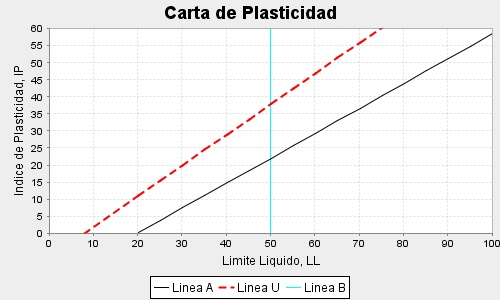
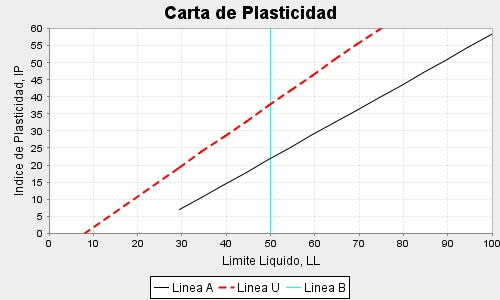
Gestionar COnsistencia.

diff --git a/trunk/src/cuLimiteConsistencia/ControlLimiteConsistencia.java b/trunk/src/cuLimiteConsistencia/ControlLimiteConsistencia.java
@@ -18,14 +18,14 @@ public class ControlLimiteConsistencia {
         /**
          * Inserta un analisis de consistencia con persistencia. 
          */ 
-        public void insertarConsistencia(Float limiteLiquido ,Float limitePlastico,Muestra muestra) throws Exception{
+        public void insertarConsistencia(Muestra muestra) throws Exception{
                 Persistencia persistencia = new Persistencia();
                 persistencia.abrirTransaccion();
                 try {
-                        muestra = (Muestra)persistencia.buscarObjeto(muestra.getClass(), "nombreMuestra=='"+muestra.getNombreMuestra()+"' && ubicacion.nombreUbicacion=='"+muestra.getUbicacion().getNombreUbicacion()+"'");
-                        muestra.setLimiteLiquido(limiteLiquido);
-                        muestra.setLimitePlastico(limitePlastico);
-                        muestra.calcularIndicePlasticidad();
+                        Muestra auxMuestra = (Muestra)persistencia.buscarObjeto(muestra.getClass(), "nombreMuestra=='"+muestra.getNombreMuestra()+"' && ubicacion.nombreUbicacion=='"+muestra.getUbicacion().getNombreUbicacion()+"'");
+                        auxMuestra.setLimiteLiquido(muestra.getLimiteLiquido().toString());
+                        auxMuestra.setLimitePlastico(muestra.getLimitePlastico().toString());
+                        auxMuestra.calcularIndicePlasticidad();
                         persistencia.cerrarTransaccion();
                         System.out.println("Consistencia insertado con persistencia");
                 } catch (Exception e) {
@@ -49,8 +49,8 @@ public class ControlLimiteConsistencia {
                 try {
                 	Muestra muestra = new Muestra();
         			muestra = (Muestra)persistencia.buscarObjeto(muestra.getClass(), "nombreMuestra=='"+nombreMuestra+"'");
-        			muestra.setLimitePlastico(limitePlastico);
-        			muestra.setLimiteLiquido(limiteLiquido);
+        			muestra.setLimitePlastico(limitePlastico.toString());
+        			muestra.setLimiteLiquido(limiteLiquido.toString());
         			muestra.calcularIndicePlasticidad();
         			persistencia.cerrarTransaccion();
         			System.out.println("Consistencia modificada con persistencia");

diff --git a/trunk/src/cuLimiteConsistencia/GUILimiteConsistencia.java b/trunk/src/cuLimiteConsistencia/GUILimiteConsistencia.java
@@ -55,12 +55,16 @@ public class GUILimiteConsistencia extends javax.swing.JDialog {
     public GUILimiteConsistencia(String title, Muestra muestra) {
         super();
         setTitle(title);
-        jTextFieldLL = new JTextField();
-        jTextFieldLP = new JTextField();
+      
         nombreMuestra = new javax.swing.JLabel("Nombre: "+muestra.getNombreMuestra());
         pesoMuestra  = new javax.swing.JLabel("Peso: "+muestra.getPeso()+ " (gr.)");
-        jTextFieldLL = new javax.swing.JTextField();
-        jTextFieldLP = new javax.swing.JTextField();
+        if (muestra.getLimiteLiquido() == 0 && muestra.getLimitePlastico() == 0){
+        	  jTextFieldLL = new JTextField();
+              jTextFieldLP = new JTextField(); 
+        }else {
+        	jTextFieldLL = new JTextField(muestra.getLimiteLiquido().toString());
+            jTextFieldLP = new JTextField(muestra.getLimitePlastico().toString());
+        }
         initComponents();
         jButtonAgregar.setIcon(new javax.swing.ImageIcon(getClass().getResource("/imagenes/edit-add.png")));
         jButtonCancelar.setIcon(new javax.swing.ImageIcon(getClass().getResource("/Imagenes/dialog-no.png")));
@@ -70,26 +74,8 @@ public class GUILimiteConsistencia extends javax.swing.JDialog {
        
 }
 
-/**
- * This is the parametrized constructor used in modification
- * @param limLiq  arreglo que almacena los datos de una limiteLiquido.
- */
-public GUILimiteConsistencia(String title,String limLiq, String limPlas, Muestra muestra) {
-        super();
-        setTitle(title);
-        jTextFieldLL = new JTextField(limLiq);
-        jTextFieldLP = new JTextField(limPlas);
-        nombreMuestra = new javax.swing.JLabel("Nombre Muestra: "+muestra.getNombreMuestra());
-        pesoMuestra = new javax.swing.JLabel("Peso: "+muestra.getPeso()+ " (gr.)");
-        initComponents();
-        
-}
-    /** Creates new form GUILimiteConsistencia
-    public GUILimiteConsistencia(String title, Muestra mu) {
-        super();
-        
-        initComponents();
-    } */
+
+
 
     /** This method is called from within the constructor to
      * initialize the form.

diff --git a/trunk/src/cuGestionarMuestra/MediadorAltaMuestra.java b/trunk/src/cuGestionarMuestra/MediadorAltaMuestra.java
@@ -185,15 +185,18 @@ public class MediadorAltaMuestra extends Mediador{
 		data[4]= GUIMuestra.getProfundidadFinal().getText().replace(",",".");
 		data[5]= operador.getNombre()+" "+operador.getApellido();
 		if (muestra.getCliente().getNombre()!=null){
+			System.out.println("CLIENTE: "+muestra.getCliente().getNombre());
 		    	data [6]= muestra.getCliente().getNombre()+" "+muestra.getCliente().getApellido();
 		    }
 		else{
+			System.out.println("CLIENTE: "+muestra.getCliente().getNombre());
 			data [6]= "";
 		}
-		
+		System.out.println("CLIENTE: "+muestra.getCliente().getNombre());
 		data[7]= ubicacion.getCiudad();
 		java.util.Date utilDate = new java.util.Date();
 	    java.sql.Date sqlDate = new java.sql.Date(utilDate.getTime());
+	    //GUIMuestra.get
 	    muestra = new Muestra(data[1],Float.parseFloat(data[2]),Float.parseFloat(data[3]),Float.parseFloat(data[4]),operador,usuario,ubicacion,null,null,cliente,sqlDate);
 		try {
 			controlMuestra.insertarMuestra(muestra, ubicacion, operador, cliente,usuario);
@@ -253,6 +256,7 @@ public class MediadorAltaMuestra extends Mediador{
 				cliente.setNombre(((String)seleccionarCliente.getSeleccionado()[0]));
 				cliente.setApellido(((String)seleccionarCliente.getSeleccionado()[1]));
 				cliente.setDni(((String)seleccionarCliente.getSeleccionado()[2]));
+				muestra.setCliente(cliente);
 			}
 		} catch (Exception e) {
 			e.printStackTrace();

diff --git a/trunk/src/persistencia/domain/Muestra.java b/trunk/src/persistencia/domain/Muestra.java
@@ -245,20 +245,6 @@ public class Muestra {
 	}
 
 	/**
-	 * @return the analisis
-	 */
-	public Collection<Analisis> getAnalisis() {
-		return analisis;
-	}
-
-	/**
-	 * @param analisis the analisis to set
-	 */
-	public void setAnalisis(Collection<Analisis> analisis) {
-		this.analisis = analisis;
-	}
-	
-	/**
 	 * Metodo que calcula el Indice de Plasticidad.
 	 */
 	public void calcularIndicePlasticidad(){
@@ -275,8 +261,8 @@ public class Muestra {
 	/**
 	 * @param limitePlastico the limitePlastico to set
 	 */
-	public void setLimitePlastico(Float limitePlastico) {
-		this.limitePlastico = limitePlastico;
+	public void setLimitePlastico(String limitePlastico) {
+		this.limitePlastico = Float.parseFloat(limitePlastico.replace(",","." ));
 	}
 
 	/**
@@ -289,8 +275,8 @@ public class Muestra {
 	/**
 	 * @param limiteLiquido the limiteLiquido to set
 	 */
-	public void setLimiteLiquido(Float limiteLiquido) {
-		this.limiteLiquido = limiteLiquido;
+	public void setLimiteLiquido(String limiteLiquido) {
+		this.limiteLiquido = Float.parseFloat(limiteLiquido.replace(",","." ));
 	}
 
 	/**

diff --git a/trunk/src/comun/CargaDatos.java b/trunk/src/comun/CargaDatos.java
@@ -195,6 +195,9 @@ public class CargaDatos {
 		
 		Muestra muestra2 = new Muestra("M1",new Float(100),new Float(1),new Float(2),null,usuario1,null,null,null,null,sqlDate);	
 		Muestra muestra3 = new Muestra("M2",new Float(250),new Float(2),new Float(6),null,usuario1,null,null,null,null,sqlDate1);
+		muestra3.setLimiteLiquido("29.5");
+		muestra3.setLimitePlastico("26.2");
+		muestra3.calcularIndicePlasticidad();
 
 		Ubicacion ubicacion1 = new Ubicacion("ZONA 5","EL IMPENETRABLE","Chaco","0","0");
 		Ubicacion ubicacion2 = new Ubicacion("UNRC","RIO CUARTO","Cordoba","0","1");
@@ -344,8 +347,9 @@ public class CargaDatos {
 			controlAnalisis.insertarAnalisis(analisis4, muestra3, "40");
 			controlAnalisis.insertarAnalisis(analisis5, muestra3, "200");
 			
-			System.out.println("Comienza carga limite consistencia");
-			controlConsistencia.insertarConsistencia((float)29.5,(float)26.2, muestra3);
+			
+			
+			
 			
 		} catch (Exception e) {
 			System.out.println("No se pudieron insertar");
